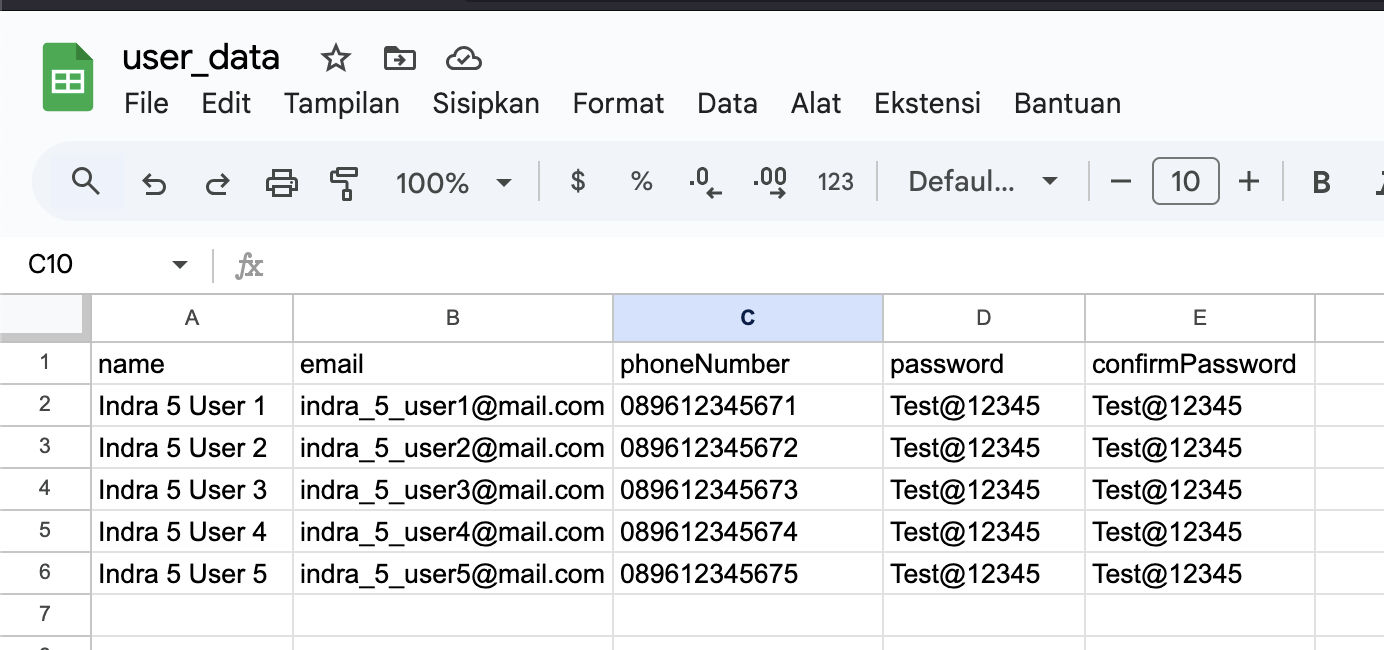
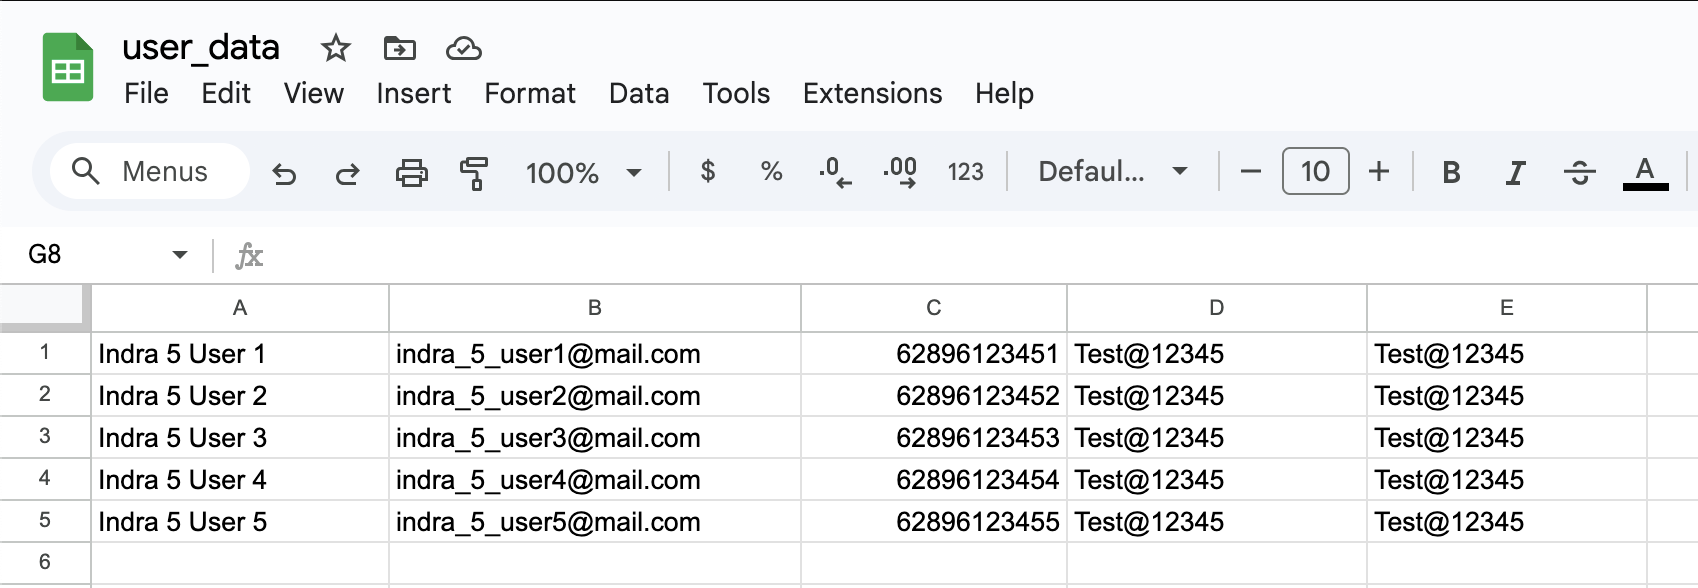
feat:Add JMeter with CSV

Changed region(s): [[0.0, 0.3673, 1.0, 1.0], [0.0, 0.0, 1.0, 0.1837], [0.0311, 0.2143, 1.0, 0.3367]]

diff --git a/content/posts/2025/04/jmeter-load-testing-rest-web-services/index.md b/content/posts/2025/04/jmeter-load-testing-rest-web-services/index.md
@@ -1,7 +1,7 @@
 ---
 title: JMeter - A Simple Sample for Load Testing REST Web Services
 date: 2025-04-01T08:37:48+07:00
-lastmod: 2025-04-04T22:37:48+07:00
+lastmod: 2025-04-19T22:37:48+07:00
 author: Indra Sudirman
 avatar: /img/indra.png
 # authorlink: https://author.site
@@ -66,6 +66,9 @@ docker exec -it mongodb-container mongosh -u admin -p secret
 
 ![Access MongoDB in terminal](docker-exec-mongodb.png)
 
+Please provide database first, in my case I use `whatsapp_db` as the database.
+![Show Database](show-dbs-mongo.png)
+
 For now, the prerequisite in Docker is done.
 
 ### Simple Rest API project
@@ -107,7 +110,7 @@ Now, let's start to the main topic, Load Testing REST Web Services. To do this, 
 1. Load Testing with CSV file data.
 2. Load Testing with `RandomString` function provided by JMeter to generate random email and phone number.
 
-### Load Testing with CSV file data
+### 1. Load Testing with CSV file data
 
 Before start to the load testing, we need to prepare the data in CSV file, to achieve this, I create Python script to generate the data.
 
@@ -120,7 +123,7 @@ import csv
 totalUser = 5
 name_prefix =  "Indra 5 User"
 email_prefix = "indra_5_user"
-phone_number_base = "08961234567"
+phone_number_base = "6289612345"
 password = "Test@12345"
 
 # Nama file CSV
@@ -129,9 +132,6 @@ filename = "user_data.csv"
 # Write data to file CSV
 with open(filename, mode='w', newline='') as file:
     writer = csv.writer(file)
-
-    # Header kolom
-    writer.writerow(["name", "email", "phoneNumber", "password", "confirmPassword"])
 
     # User data
     for i in range(1, totalUser + 1):
@@ -146,7 +146,67 @@ print(f"CSV file '{filename}' berhasil dibuat dengan {totalUser} user.")
 If we run the script above, the output is like this :
 ![User 5 Data CSV](csv-user-5-data.png)
 
-### Load Testing with `RandomString` function JMeter
+To start Load Testing with CSV file data, the step are:
+
+1. Click File -> New.
+   Empty Test Plan Window will opened. Rename the Test Plan to **Register Test Plan With CSV Data** as the image below:
+   ![Empty Test Plan With CSV Data](new-test-plan-with-csv-data.png)
+
+2. Create **New Thread Group** by right click on the **Register Test Plan With CSV Data** -> **Add** -> **Threads (Users)** -> **Thread Group**
+
+   at the Thread Group window, we set the **Number of Threads (users)** to **5**, **Ramp-Up Period (seconds)** to **1** and **Loop Count** to **1**. This means JMeter will distribute the start of 5 users evenly over the 1 second period (one user starting every 0.2 seconds = 1 second / 5 users). The Loop Count of 1 means each user will execute the test scenario once.
+
+   We can see the setting as follow :
+   ![Thread Group Setting CSV Data](thread-group-csv-data.png)
+
+3. Create **New HTTP Request** by right click on the **Thread Group** -> **Add** -> **Sampler** -> **HTTP Request**
+
+   at the HTTP Request window, we set the **Name** to **HTTP Register with CSV Data**, **Server Name or IP** to **localhost**, **Port** to **8000**, **Path** to **/api/v1/auth/register**, **HTTP Request** to **POST**.
+   ![New HTTP Request With CSV](new-http-request-with-csv.png)
+
+4. Still on the **HTTP Request** window, click on the `Body Data` and file the **Body Data** as follow :
+
+   ```json
+   {
+     "name": "${name}",
+     "email": "${email}",
+     "phoneNumber": "${phone_number}",
+     "password": "${password}",
+     "confirmPassword": "${password}"
+   }
+   ```
+
+   ![File Upload Setting](file-upload-setting.png)
+
+5. Create **CSV Data Set Config** by right click on the **HTTP Request** -> **Add** -> **Config Element** -> **CSV Data Set Config**
+   at the CSV Data Set Config window, we set the **Filename** to **user_data.csv**, **Variable Names** to **name,email,phone_number,password,password**, **Delimiter** to **,**.
+   ![CSV Data Set Config Setting](add-csv-data-config.png)
+   The **Filename** is the name of the CSV file that contains the data to be used for the test.
+
+6. Create **HTTP Header Manager** by right click on the **Register HTTP Request** -> **Add** -> **Config Element** -> **HTTP Header Manager**
+   at the HTTP Header Manager window, we set the **Name** to **Content-Type**, **Value** to **application/json**.
+   ![HTTP Header Manager Setting](http-header-manager-setting.png)
+
+7. Create some report like:
+
+- **View Results Tree** by right click on the **Register Test Plan** -> **Add** -> **Listener** -> **View Results Tree** let it blank by default.
+- **Summary Report** by right click on the **Register Test Plan** -> **Add** -> **Listener** -> **Summary Report** let it blank by default.
+- **Aggregate Report** by right click on the **Register Test Plan** -> **Add** -> **Listener** -> **Aggregate Report** let it blank by default.
+- **View Results in Table** by right click on the **Register Test Plan** -> **Add** -> **Listener** -> **View Results in Table** let it blank by default.
+  ![Report Setting](report-setting.png)
+
+Now, we can run the test by click the green play button.
+![Start Run Test With CSV](start-the-jmeter-with-csv.png)
+
+We can see the result as follow:
+![View Result Tree Run Test](view-result-tree-with-csv.png)
+
+If we check the MongoDB Compass, we can see the data successfully inserted into database.
+![MongoDB Compass Register Inserted](mongodb-compass-register-inserted-load-test-with-csv.png)
+
+Hurray! the data successfully inserted into database.
+
+### 2. Load Testing with `RandomString` function JMeter
 
 To start Load Testing with `RandomString` the step are:
 
@@ -164,7 +224,7 @@ To start Load Testing with `RandomString` the step are:
 
 3. Create **New HTTP Request** by right click on the **Thread Group** -> **Add** -> **Sampler** -> **HTTP Request**
 
-   at the HTTP Request window, we set the **Name** to **Register**, **Protocol** to **HTTP**, **Server Name or IP** to **localhost**, **Port** to **8000**, **Path** to **/api/v1/auth/register**, **HTTP Request** to **POST**.
+   at the HTTP Request window, we set the **Name** to **Register**, **Server Name or IP** to **localhost**, **Port** to **8000**, **Path** to **/api/v1/auth/register**, **HTTP Request** to **POST**.
    ![New HTTP Request](new-http-request.png)
 
 4. In the **HTTP Request** window, we fill the **Body Data** as follow :
